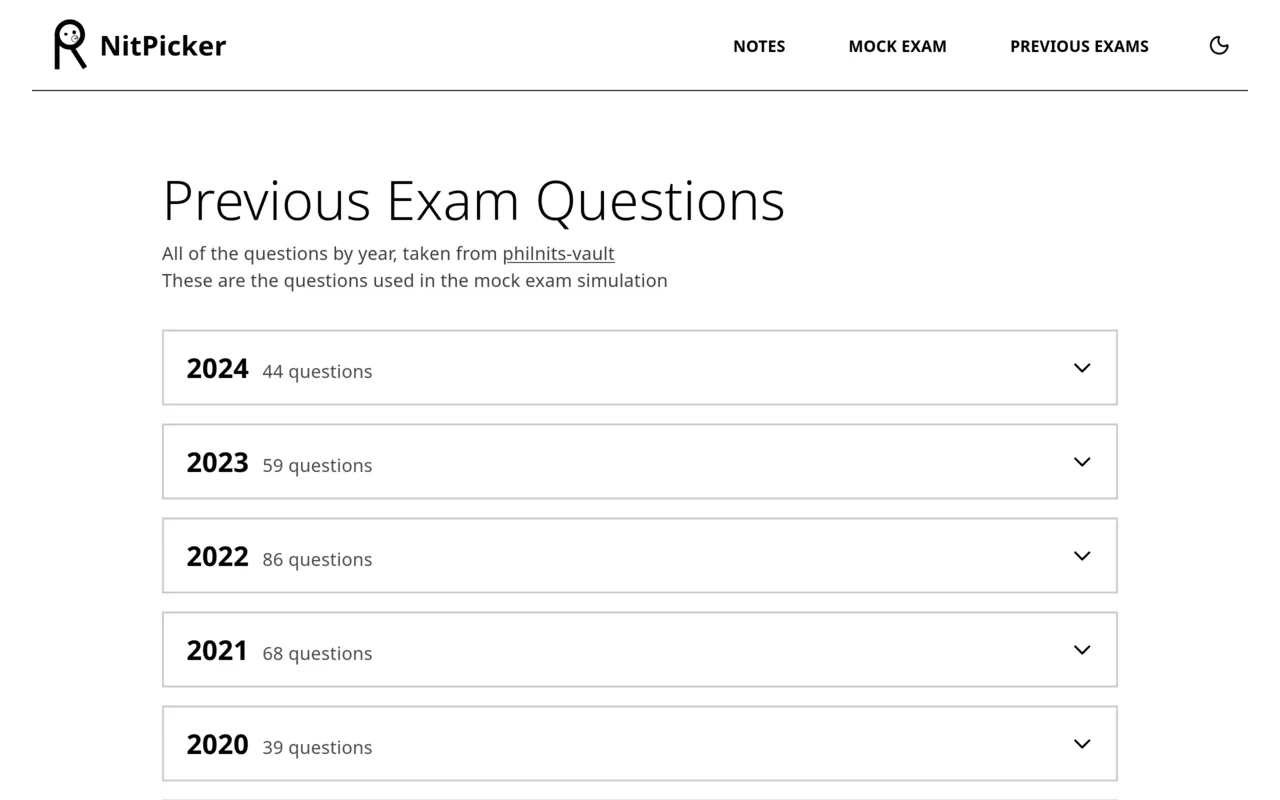
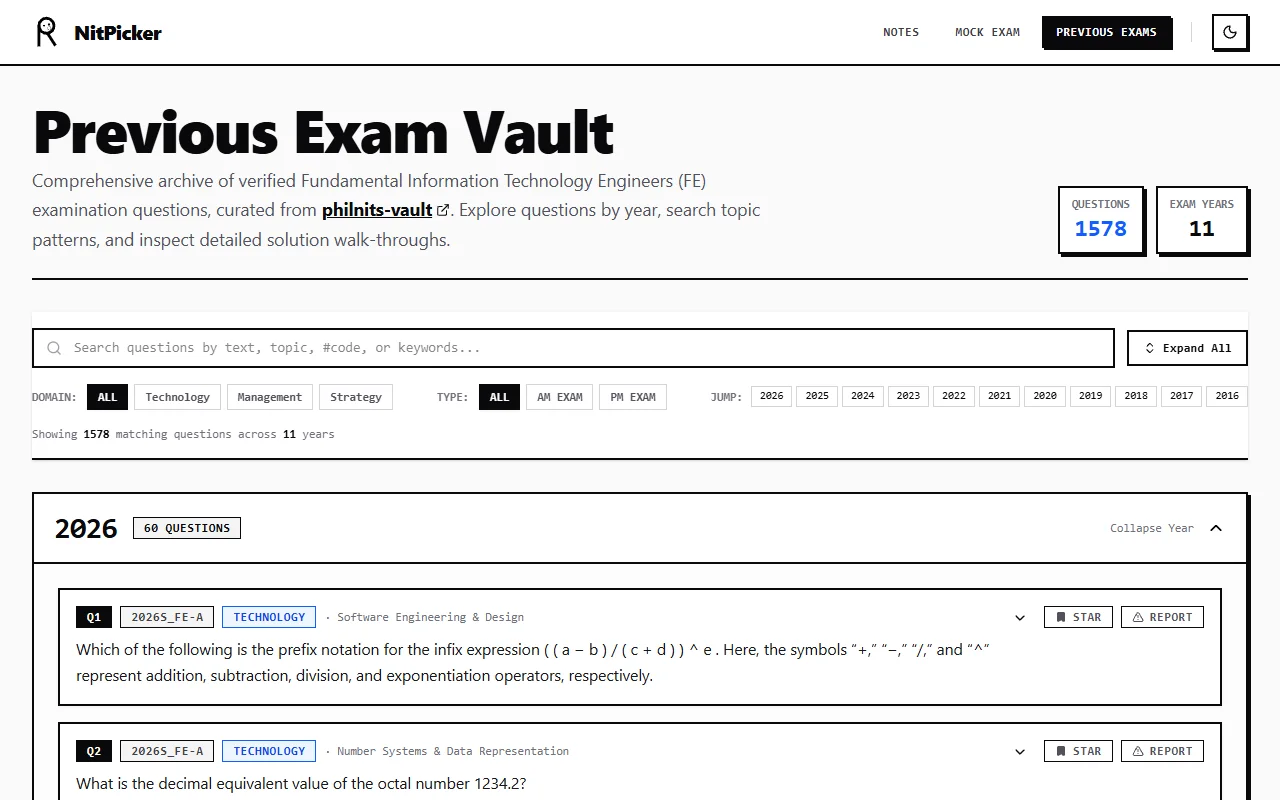
feat: refresh project screenshots and add Chronos and Caledoro galleries
Recapture Bored and NitPicker from the current live sites, and add
screenshot galleries for Chronos and Caledoro, which had none.

diff --git a/src/App.tsx b/src/App.tsx
@@ -63,7 +63,7 @@ const projects: Project[] = [
     role: 'One of four developers. I built FastAPI and SQLAlchemy services and React workflows for sign-in, role-based access, scheduling, validation, timetable views, and CSV/XLSX export. I wrote unit and PostgreSQL integration tests and designed the Jira–GitHub workflow with AI-assisted MCP commands.',
     stack: 'Python · FastAPI · PostgreSQL · React · TypeScript · DEAP · Mlxtend',
     visual: 'chronos',
-    screenshots: [],
+    screenshots: ['projects/chronos-1.webp', 'projects/chronos-2.webp', 'projects/chronos-3.webp', 'projects/chronos-4.webp'],
     links: [{ label: 'View repository', href: 'https://github.com/saiimonn/Chronos' }],
   },
   {
@@ -87,7 +87,7 @@ const projects: Project[] = [
     role: 'One of three developers. I integrated the Gemini API for task breakdown and worked on local storage, state management, notifications, testing, debugging, and responsive layouts.',
     stack: 'Flutter · Dart · Riverpod · Hive · Gemini API',
     visual: 'caledoro',
-    screenshots: [],
+    screenshots: ['projects/caledoro-1.webp', 'projects/caledoro-2.webp'],
     links: [{ label: 'View repository', href: 'https://github.com/choonhows/Caledoro' }],
   },
   {
